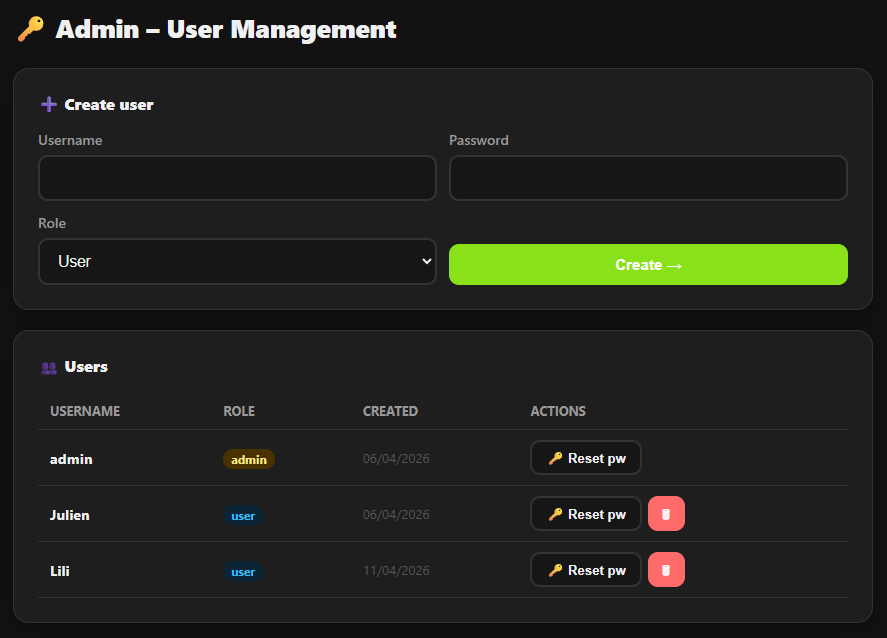
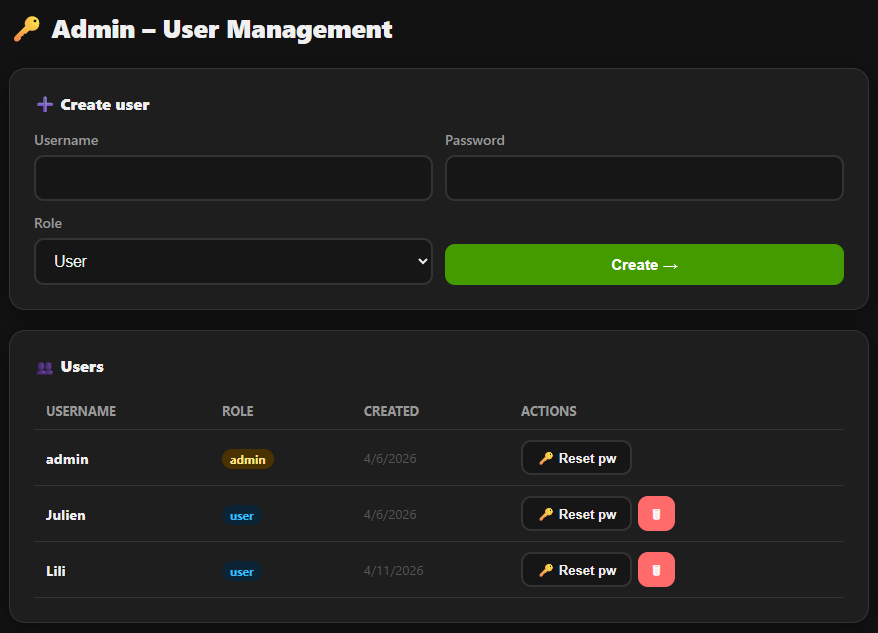
Update README
## What's new
- Added new screenshot of new word writing exercice
- Updated all screenshots to match new color scheme of the app

diff --git a/README.md b/README.md
@@ -39,13 +39,17 @@ A lightweight, responsive web application for language learning with flashcards.
 
 ![Vocabulary page](images/Vocabulary.png)
 
-- **Word categories**: Nouns, Verbs, Adjectives, Adverbs
+- **Word practice** practice words based on your word bank
 
 ![Words practice](<images/Practice words.png>)
 
-- **Phrases** (sentence reconstruction exercise)
+- **Phrases** practise phrases reconstruction
 
 ![Sentences writing](<images/Practice sentences.png>)
+
+- **Words writing** write words, letter by letter, with (easy) or without (hard) audio input
+
+![Sentences writing](<images/Practice writing.png>)
 
 - **Optional "Definition" field** on every word
 
